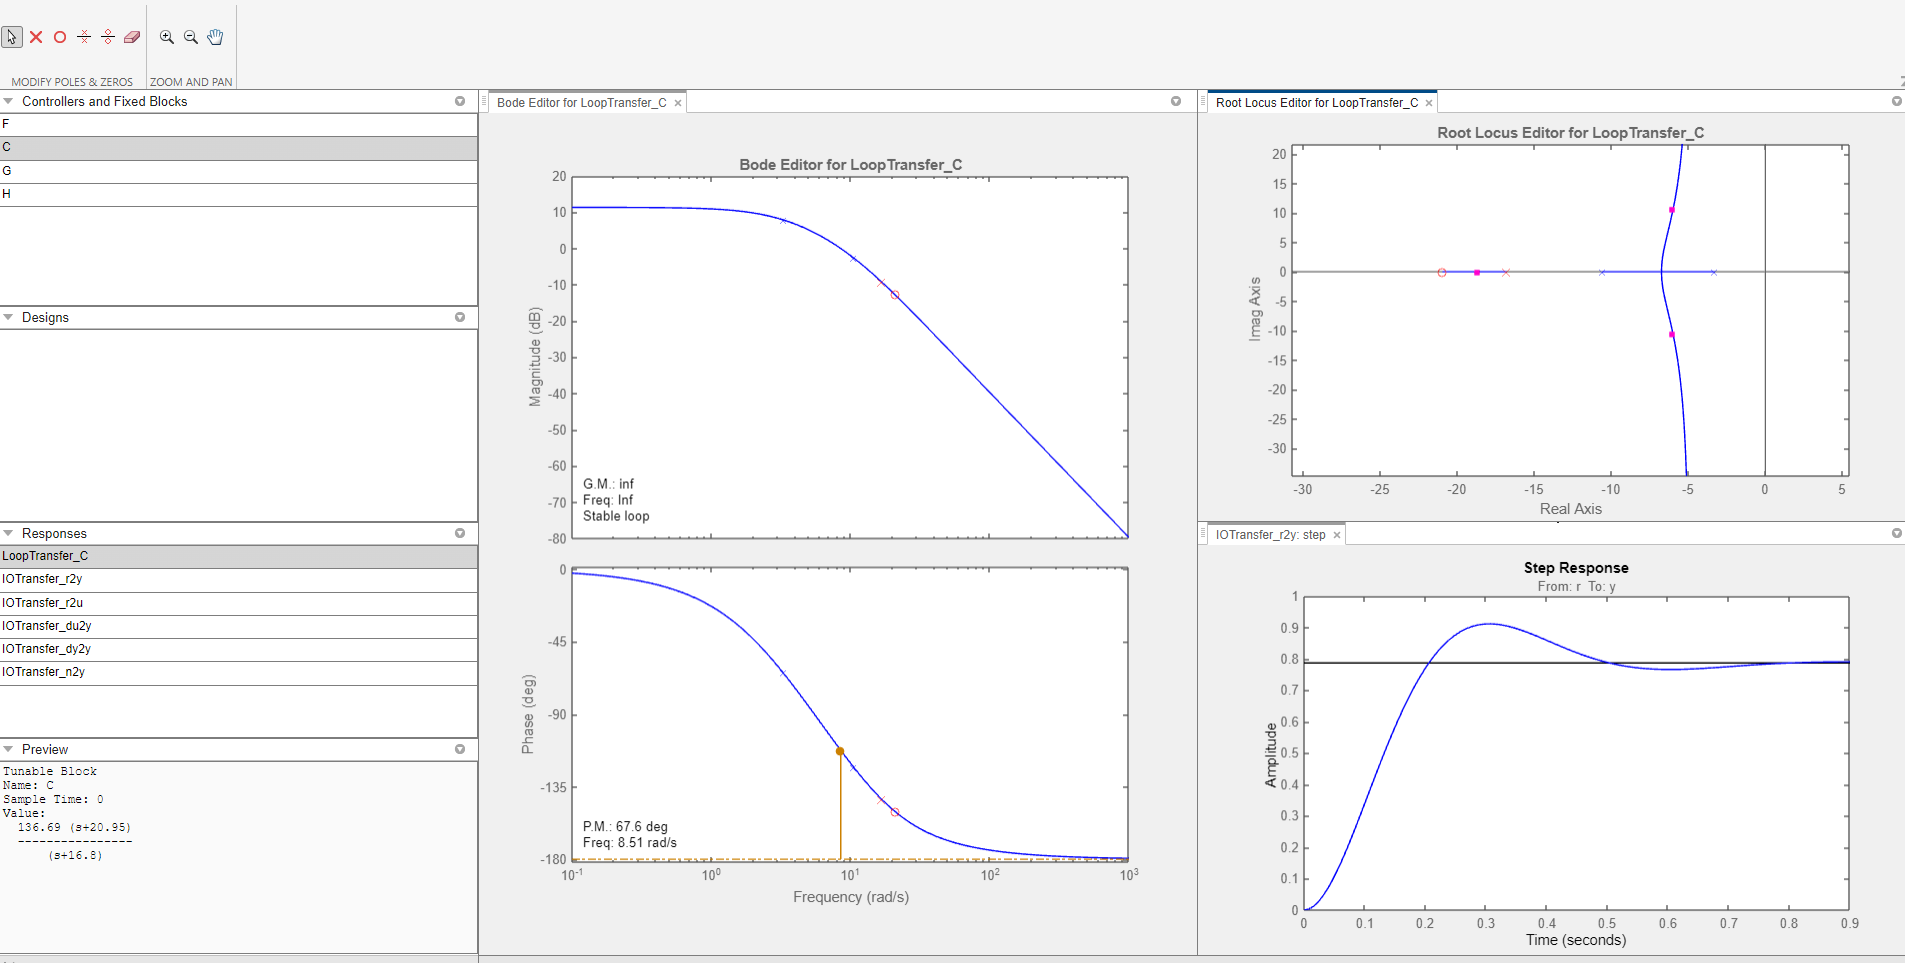
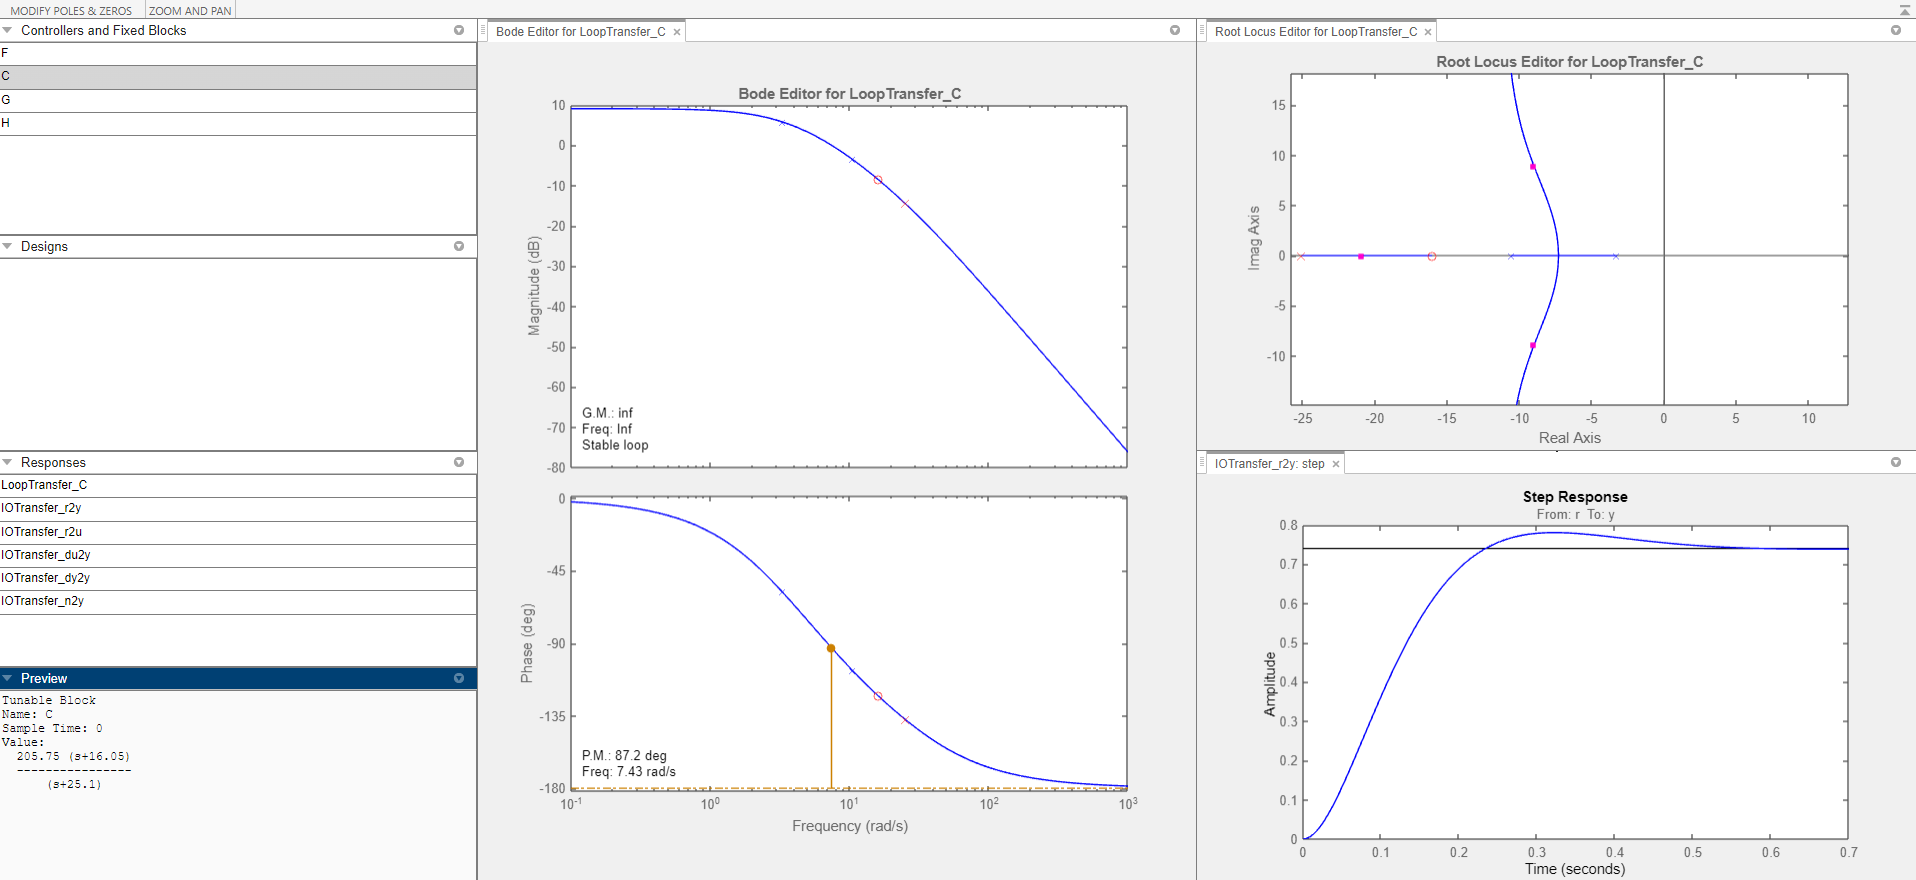
updated readme

diff --git a/encoded_dc_motor_kit_compensator/documentation/images/lead_compensator/matlab_code.md b/encoded_dc_motor_kit_compensator/documentation/images/lead_compensator/matlab_code.md
@@ -2,18 +2,15 @@
 Here is the matlab code for the step test:
 
 ```matlab
-clc;
-clear;
-
 % Define system parameters
 num = [0.755];
 den = [1, 13.87, 34.91];
 gs = tf(num, den);
 
-num_lc = [1, 20.95];
-den_lc = [1, 16.8];
+num_lc = [1, 16.05];
+den_lc = [1, 25.1];
 gs_lc = tf(num_lc, den_lc);
-k = 136.69;
+k = 185.59;
 gs_lc = series(k, gs_lc);
 
 gs_top = series(gs_lc, gs);
@@ -55,7 +52,7 @@ disp('Step Info (from 2 to 3):');
 disp(step_info);
 
 % Discretize gs_lc
-gs_lc_discrete = c2d(gs_lc, 0.01, 'tustin');
+gs_lc_discrete = c2d(gs_lc, 0.01, 'tustin')
 disp('Discrete-time Transfer Function (Tustin method):');
 disp(gs_lc_discrete);
 ```
